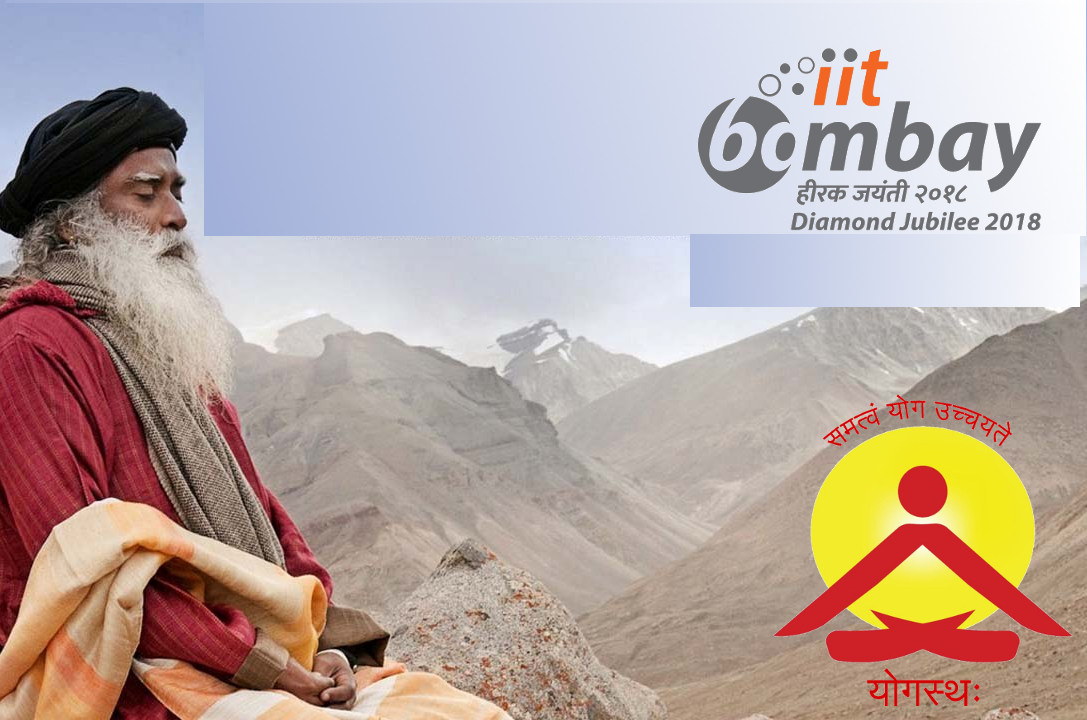
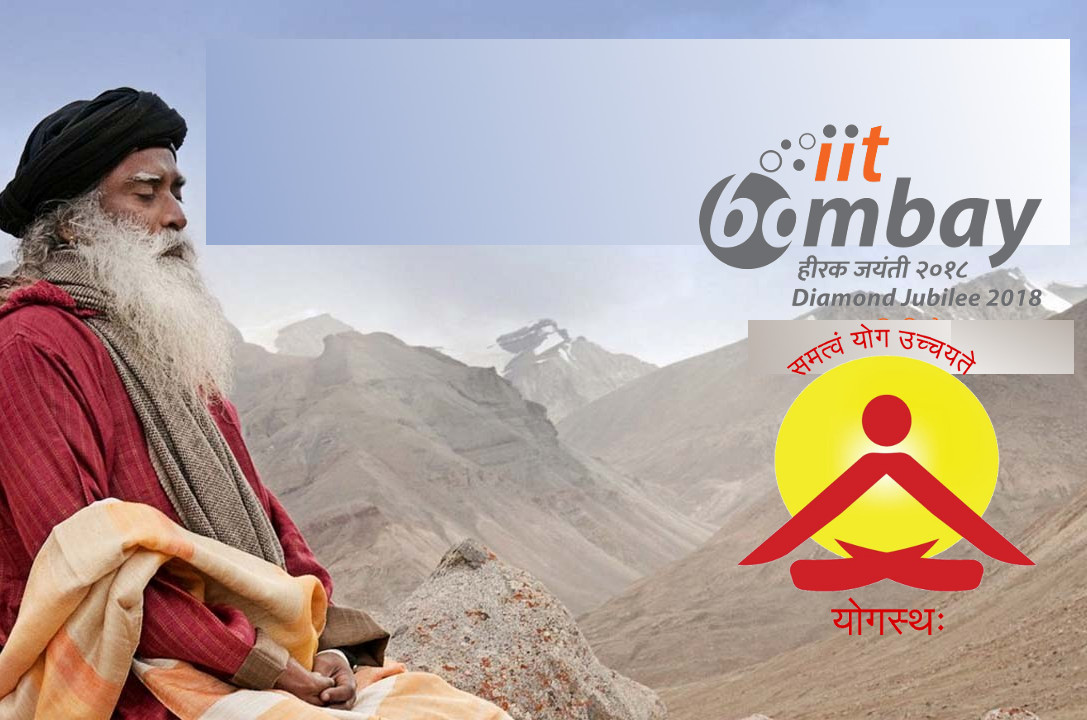
add photo

Changed region(s): [[0.2125, 0.0, 1.0, 0.9778], [0.1822, 0.3056, 0.3947, 0.3667]]

diff --git a/Sadhguru/style.css b/Sadhguru/style.css
@@ -995,7 +995,7 @@ button:focus {
 	top: 0;
 	right: 0;
 	position: absolute;
-	opacity: 0.97;
+	opacity: 0.9;
 }
 
 .mu-register-area {
